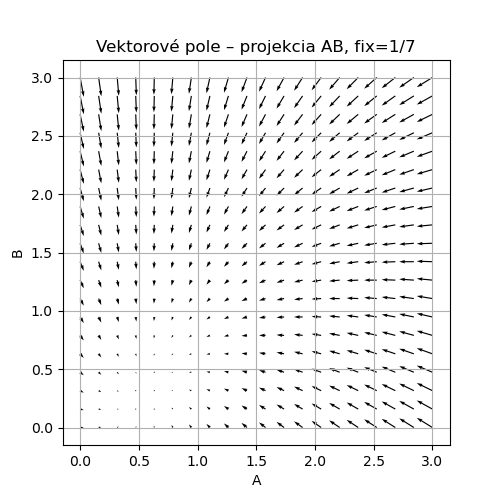
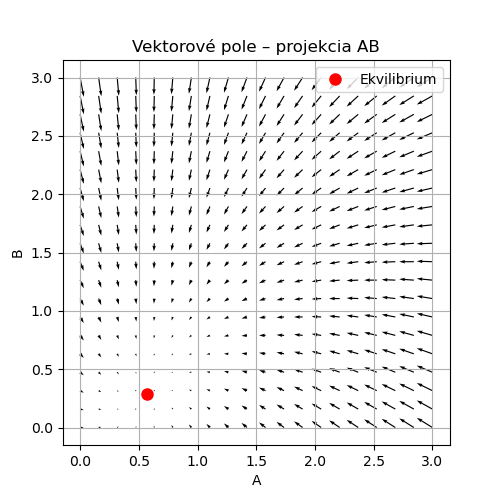
update

Changed region(s): [[0.18, 0.06, 0.9, 0.18], [0.27, 0.78, 0.33, 0.81]]

diff --git a/project.py b/project.py
@@ -15,6 +15,7 @@ from scipy.integrate import solve_ivp
 # 1. DEFINÍCIA MODELU (LTI ODE)
 # -------------------------------------------------
 
+
 def model(t,x):
     A, B, C = x
     dA = -A + C + 1 - A   # A->B, C->A, prítok, odtok
@@ -57,6 +58,7 @@ plt.show()
 
 A, B, C = sp.symbols('A B C', real=True)
 
+
 f1 = -A + C + 1 - A
 f2 = A - B - B
 f3 = B - C - C
@@ -82,27 +84,67 @@ print(J_eq.eigenvals())
 # 5. VEKTOROVÉ POLE – 2D PROJEKCIE
 # -------------------------------------------------
 
+# def vector_field(x, y, fixed_value, proj="AB"):
+#     if proj == "AB":
+#         A, B, C = x, y, fixed_value
+#     elif proj == "AC":
+#         A, B, C = x, fixed_value, y
+#     else:  # BC
+#         A, B, C = fixed_value, x, y
+    
+
+#     dA = -A + C + 1 - A
+#     dB = A - B - B
+#     dC = B - C - C
+
+#     if proj == "AB":
+#         return dA, dB
+#     elif proj == "AC":
+#         return dA, dC
+#     else:
+#         return dB, dC
+
 def vector_field(x, y, fixed_value, proj="AB"):
     if proj == "AB":
         A, B, C = x, y, fixed_value
+        dA, dB, _ = model(0, [A, B, C])
+        return dA, dB
+
     elif proj == "AC":
         A, B, C = x, fixed_value, y
+        dA, _, dC = model(0, [A, B, C])
+        return dA, dC
+
     else:  # BC
         A, B, C = fixed_value, x, y
-
-    dA = -A + C + 1 - A
-    dB = A - B - B
-    dC = B - C - C
-
-    if proj == "AB":
-        return dA, dB
-    elif proj == "AC":
-        return dA, dC
-    else:
+        _, dB, dC = model(0, [A, B, C])
         return dB, dC
 
 
-def plot_vector_field(proj, fixed_value):
+# def plot_vector_field(proj, fixed_value):
+#     x = np.linspace(0, 3, 20)
+#     y = np.linspace(0, 3, 20)
+#     X, Y = np.meshgrid(x, y)
+#     U = np.zeros_like(X)
+#     V = np.zeros_like(Y)
+
+#     for i in range(X.shape[0]):
+#         for j in range(X.shape[1]):
+#             U[i,j], V[i,j] = vector_field(X[i,j], Y[i,j], None, fixed_value, proj)
+
+#     plt.figure(figsize=(5,5))
+#     plt.quiver(X, Y, U, V)
+#     plt.xlabel(proj[0])
+#     plt.ylabel(proj[1])
+#     plt.title(f"Vektorové pole – projekcia {proj}, fix={fixed_value}")
+#     plt.grid()
+#     plt.show()
+
+# plot_vector_field("AB", fixed_value=solutions[C])
+# plot_vector_field("AC", fixed_value=solutions[B])
+# plot_vector_field("BC", fixed_value=solutions[A])
+
+def plot_vector_field(proj, fixed_value, equilibrium):
     x = np.linspace(0, 3, 20)
     y = np.linspace(0, 3, 20)
     X, Y = np.meshgrid(x, y)
@@ -111,16 +153,30 @@ def plot_vector_field(proj, fixed_value):
 
     for i in range(X.shape[0]):
         for j in range(X.shape[1]):
-            U[i,j], V[i,j] = vector_field(X[i,j], Y[i,j], None, fixed_value, proj)
+            U[i, j], V[i, j] = vector_field(
+                X[i, j], Y[i, j], fixed_value, proj
+            )
 
-    plt.figure(figsize=(5,5))
+    plt.figure(figsize=(5, 5))
     plt.quiver(X, Y, U, V)
+
+    # --- ekvilibrium ---
+    if proj == "AB":
+        eq_x, eq_y = equilibrium[A], equilibrium[B]
+    elif proj == "AC":
+        eq_x, eq_y = equilibrium[A], equilibrium[C]
+    else:  # BC
+        eq_x, eq_y = equilibrium[B], equilibrium[C]
+
+    plt.plot(eq_x, eq_y, 'ro', markersize=8, label="Ekvilibrium")
+
     plt.xlabel(proj[0])
     plt.ylabel(proj[1])
-    plt.title(f"Vektorové pole – projekcia {proj}, fix={fixed_value}")
+    plt.title(f"Vektorové pole – projekcia {proj}")
+    plt.legend()
     plt.grid()
     plt.show()
 
-plot_vector_field("AB", fixed_value=solutions[C])
-plot_vector_field("AC", fixed_value=solutions[B])
-plot_vector_field("BC", fixed_value=solutions[A])
+plot_vector_field("AB", fixed_value=solutions[C], equilibrium=solutions)
+plot_vector_field("AC", fixed_value=solutions[B], equilibrium=solutions)
+plot_vector_field("BC", fixed_value=solutions[A], equilibrium=solutions)
